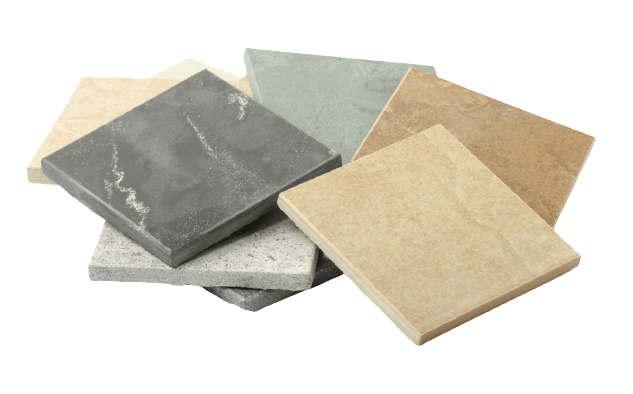
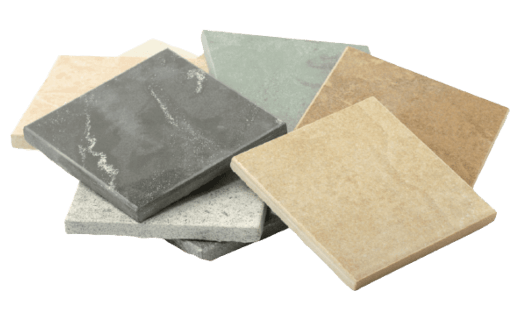
Added webp images and form honeypot field

Changed region(s): [[0.0, 0.0938, 0.9846, 0.9062], [0.7077, 0.5312, 0.7385, 0.5625], [0.6154, 0.7812, 0.6462, 0.8125]]

diff --git a/src/components/product-categories/slider.tsx b/src/components/product-categories/slider.tsx
@@ -1,4 +1,5 @@
-import { HStack, Image } from '@chakra-ui/react';
+import { Flex, HStack, Image, Link } from '@chakra-ui/react';
+import NextLink from 'next/link';
 import SwiperCore, { Lazy, Navigation } from 'swiper';
 import { Swiper, SwiperSlide } from 'swiper/react';
 
@@ -30,28 +31,35 @@ const ProductCategorySlider = ({ items }: ProductCategorySliderProps) => (
         </SwiperSlide>
       ))}
     </Swiper>
-    <HStack spacing={2} mt={6}>
-      <Image
-        src="/images/arrow-left-circle.svg"
-        alt="Previous"
-        className="product-slider-prev"
-        w={12}
-        htmlWidth="48"
-        htmlHeight="48"
-        cursor="pointer"
-        transition="ease 200ms opacity"
-      />
-      <Image
-        src="/images/arrow-right-circle.svg"
-        alt="Next"
-        className="product-slider-next"
-        w={12}
-        htmlWidth="48"
-        htmlHeight="48"
-        cursor="pointer"
-        transition="ease 200ms opacity"
-      />
-    </HStack>
+    <Flex mt={6} justify="space-between">
+      <HStack spacing={2}>
+        <Image
+          src="/images/arrow-left-circle.svg"
+          alt="Previous"
+          className="product-slider-prev"
+          w={12}
+          htmlWidth="48"
+          htmlHeight="48"
+          cursor="pointer"
+          transition="ease 200ms opacity"
+        />
+        <Image
+          src="/images/arrow-right-circle.svg"
+          alt="Next"
+          className="product-slider-next"
+          w={12}
+          htmlWidth="48"
+          htmlHeight="48"
+          cursor="pointer"
+          transition="ease 200ms opacity"
+        />
+      </HStack>
+      <NextLink href="/products" passHref>
+        <Link color="purple.700" textDecoration="underline">
+          All products
+        </Link>
+      </NextLink>
+    </Flex>
   </>
 );
 

diff --git a/src/pages/products.tsx b/src/pages/products.tsx
@@ -1,0 +1,37 @@
+import { Box, Button, Container, Flex, Heading, Image, Text } from '@chakra-ui/react';
+import Link from 'next/link';
+
+const Products = () => (
+  <Container>
+    <Flex align="center" my={20}>
+      <Box>
+        <Heading>
+          Stay tuned...&nbsp;
+          <span role="img" aria-label="pizza">
+            🍕
+          </span>
+        </Heading>
+        <Text mt={{ base: 4, lg: 6 }} mb={12}>
+          We are working hard to catalogue all our amazing products!
+        </Text>
+        <Link href="/">
+          <Button colorScheme="purple" borderRadius={0}>
+            Back to homepage
+          </Button>
+        </Link>
+      </Box>
+      <Image
+        d={{ base: 'none', xl: 'block' }}
+        flexGrow={1}
+        maxW="60%"
+        h="500px"
+        ml={16}
+        src="/images/coming-soon.svg"
+        alt="Building blocks"
+        loading="lazy"
+      />
+    </Flex>
+  </Container>
+);
+
+export default Products;

diff --git a/src/components/product-categories/slide.tsx b/src/components/product-categories/slide.tsx
@@ -1,4 +1,4 @@
-import { Center, Heading, Image } from '@chakra-ui/react';
+import { Box, Center, Heading, Image } from '@chakra-ui/react';
 
 import { ProductCategory } from '@/types/home';
 
@@ -12,16 +12,18 @@ const ProductCategorySlide = ({ bg, name, image, imageAlt }: ProductCategory) =>
     _hover={{ boxShadow: 'xl' }}
     role="group"
   >
-    <Image
-      src={image}
-      alt={imageAlt}
-      maxW="80%"
-      maxH="75%"
+    <Box
+      maxW={{ base: '90%', xl: '80%' }}
+      maxH="80%"
       transition="ease 200ms all"
       userSelect="none"
-      loading="lazy"
       _groupHover={{ opacity: { base: 1, xl: 0.2 }, transform: 'scale(1.05)' }}
-    />
+    >
+      <picture>
+        <source type="image/webp" srcSet={image.webp} />
+        <img src={image.png} alt={imageAlt} loading="lazy" />
+      </picture>
+    </Box>
     <Center
       pos="absolute"
       w="full"

diff --git a/src/components/contact/form.tsx b/src/components/contact/form.tsx
@@ -8,6 +8,7 @@ interface FormData {
   name: string;
   email: string;
   message: string;
+  lastName: string; // honeypot
 }
 
 enum SubmissionProgress {
@@ -23,7 +24,9 @@ const ContactForm = () => {
 
   const onSubmit = useCallback(
     handleSubmit((data: FormData) => {
-      // console.log({ data });
+      // anti-bot
+      if (data.lastName) return;
+
       setProgress(SubmissionProgress.Submitting);
       window.setTimeout(() => {
         setProgress(SubmissionProgress.Submitted);
@@ -59,6 +62,7 @@ const ContactForm = () => {
         bgGradient: 'linear(to-r, blue.400, purple.600)',
       }}
     >
+      <Input d="none" ref={register()} name="lastName" aria-label="last name" />
       <VStack spacing={4}>
         <FormControl isInvalid={!!errors.name}>
           <Input

diff --git a/src/components/contact/info.tsx b/src/components/contact/info.tsx
@@ -24,14 +24,7 @@ const ContactInfo = (props: StackProps) => (
         <br />
         47100 Puchong, Selangor, Malaysia
       </Text>
-      <Link
-        href="https://goo.gl/maps/iqCU5KShD63pBRqS7"
-        isExternal
-        color="blue.600"
-        textDecoration="underline"
-        transition="ease 200ms color"
-        _hover={{ color: 'blue.700' }}
-      >
+      <Link href="https://goo.gl/maps/iqCU5KShD63pBRqS7" isExternal color="purple.700" textDecoration="underline">
         See map
       </Link>
     </Box>

diff --git a/src/types/home.ts b/src/types/home.ts
@@ -1,7 +1,10 @@
 export interface ProductCategory {
   bg: string;
   name: string;
-  image: string;
+  image: {
+    webp: string;
+    png: string;
+  };
   imageAlt?: string;
 }
 
